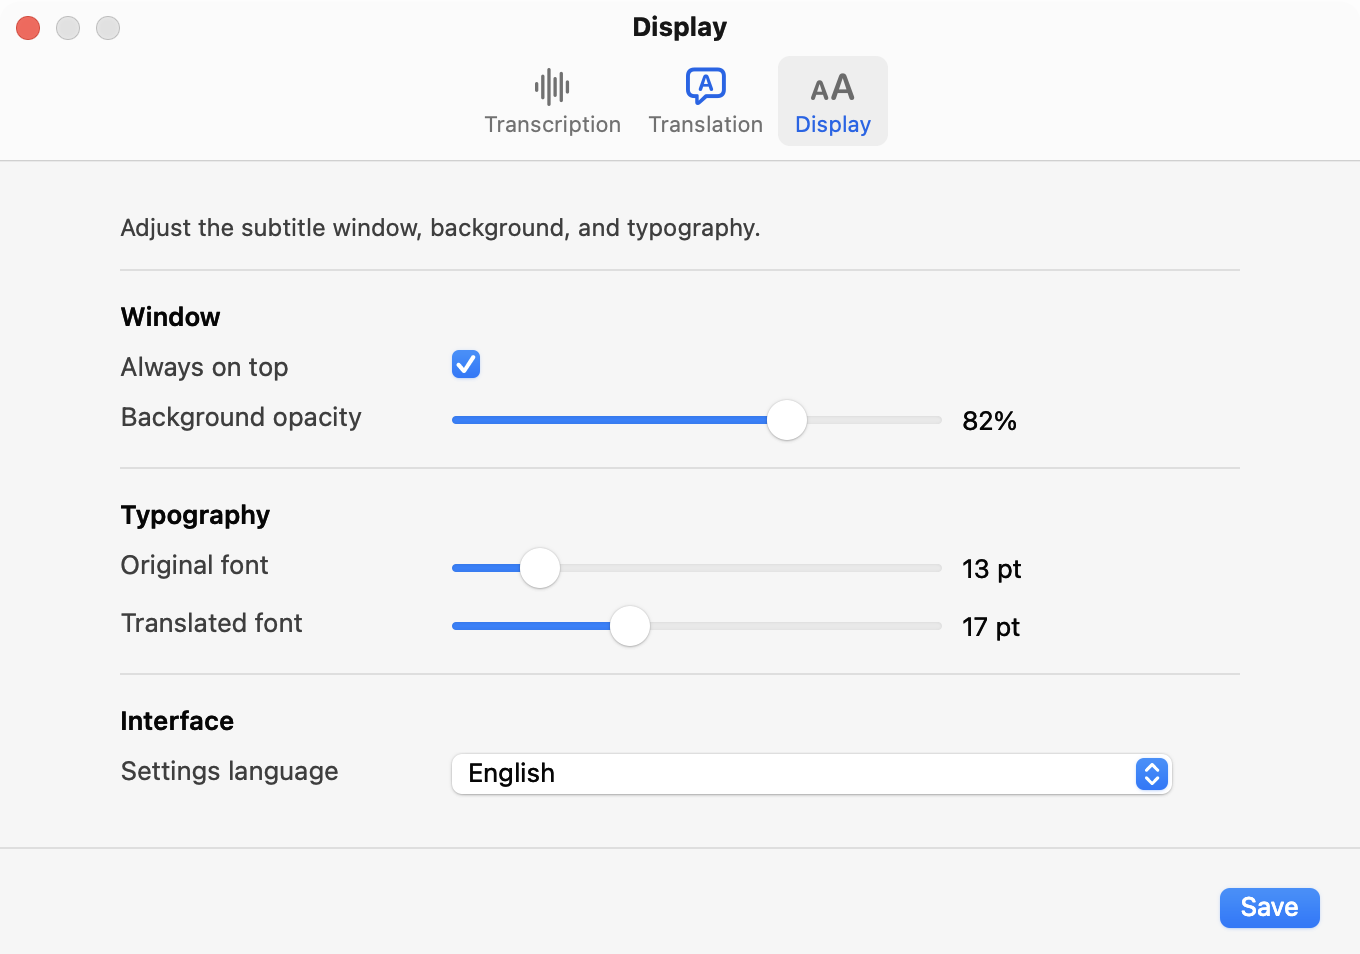
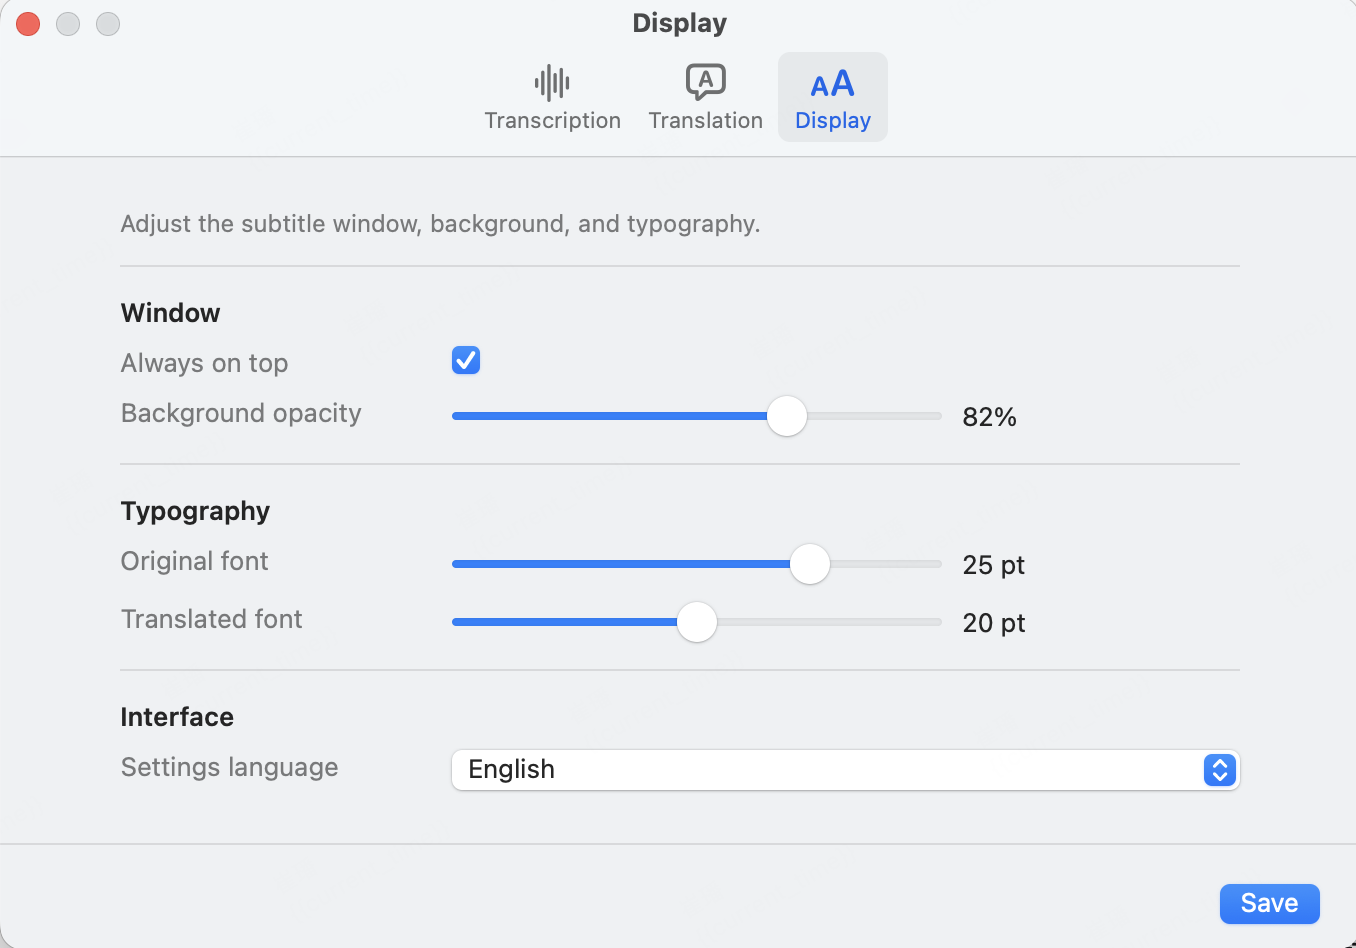
docs: refresh v0.1.0 guide and media
Condense the bilingual setup guide, update release notes and settings screenshots, and add the complete live transcription demo.

diff --git a/README.md b/README.md
@@ -13,15 +13,15 @@ English | [简体中文](README.zh-CN.md)
   <a href="LICENSE"><img src="https://img.shields.io/badge/license-MIT-blue.svg" alt="MIT License"></a>
 </p>
 
-Real-time system-audio transcription and optional translation in a native
-macOS menu-bar app. Mac Live Subtitle captures audio through
-ScreenCaptureKit, sends it to FunASR Realtime, and keeps a resizable subtitle
-panel above meetings, lectures, videos, and games.
+Mac Live Subtitle is a native macOS menu-bar app for real-time system-audio
+transcription and optional translation. It keeps a resizable subtitle panel
+above meetings, lectures, videos, and games.
 
 ### [Download the latest release →](https://github.com/Henry-Jessie/mac-live-subtitle/releases/latest)
 
-The packaged app requires **macOS 13 or later** and an **Apple Silicon Mac**.
-It does not require Python, BlackHole, a Multi-Output Device, or a local GPU.
+Requires **macOS 13 or later** and an **Apple Silicon Mac**. Native capture
+requires no Python, BlackHole, Multi-Output Device, or local GPU. BlackHole is
+available as a compatibility mode for protected players such as Apple TV.
 
 <p align="center">
   <img src="docs/images/subtitle-window.png" width="760" alt="Floating Mac Live Subtitle window">
@@ -29,40 +29,32 @@ It does not require Python, BlackHole, a Multi-Output Device, or a local GPU.
 
 ## Highlights
 
-- Native AppKit menu-bar app with no Dock icon.
-- Direct system-audio capture through ScreenCaptureKit.
+- Native AppKit menu-bar app and floating subtitle panel.
+- Native ScreenCaptureKit audio capture with optional BlackHole compatibility.
 - Streaming FunASR Realtime transcription with interim and final results.
-- Optional translation through DeepSeek, Gemini, or a custom
-  OpenAI-compatible endpoint.
-- Floating black subtitle panel with play, pause, stop, pin, and settings
-  controls.
-- Adjustable background opacity and separate source/translation font sizes.
-- English and Chinese settings interface.
-- API keys stored locally without Keychain authorization prompts.
+- Optional DeepSeek, Gemini, or custom OpenAI-compatible translation.
+- Play, pause, stop, pin, opacity, font, and bilingual-settings controls.
+
+## Demo
+
+<p align="center">
+  <img src="docs/images/demo.gif" width="760" alt="Live transcription, translation, and display controls">
+</p>
 
 ## Install
 
-1. Download `Mac-Live-Subtitle-v0.1.0-macos-arm64.zip` from
+1. Download the latest macOS arm64 ZIP from
    [GitHub Releases](https://github.com/Henry-Jessie/mac-live-subtitle/releases/latest).
 2. Unzip it and move **Mac Live Subtitle.app** to `/Applications`.
-3. Open the app once. Because the current release is self-signed and not
-   notarized by Apple, macOS may block the first launch.
-4. Open **System Settings → Privacy & Security**, scroll to **Security**, then
+3. Try to open the app once. macOS may block the first launch.
+4. Open **System Settings → Privacy & Security**, scroll to **Security**, and
    choose **Open Anyway** for Mac Live Subtitle.
-5. Open the app again. Its icon appears in the menu bar, and the subtitle
-   window opens without starting capture.
+5. Open the app again. Its menu-bar icon and subtitle window will appear
+   without starting capture.
 
-The release page includes `SHA256SUMS.txt` so the downloaded archive can be
-checked before installation:
+## Configure
 
-```bash
-shasum -a 256 -c SHA256SUMS.txt
-```
-
-## Configure services
-
-Open **Settings** from either the menu-bar menu or the subtitle-window gear
-button.
+Open **Settings** from the menu-bar menu or the subtitle-window gear button.
 
 ### Transcription
 
@@ -71,28 +63,30 @@ FunASR Realtime requires an Alibaba Cloud Model Studio API key:
 - [China API key guide](https://help.aliyun.com/zh/model-studio/get-api-key)
 - [International API key guide](https://www.alibabacloud.com/help/en/model-studio/get-api-key)
 
-Enter the key under **Settings → Transcription**. The API key and WebSocket
-endpoint must belong to the same Alibaba Cloud region. The built-in China and
-International guide buttons open the same documentation.
-
-Semantic punctuation gives more natural sentence boundaries but may produce
-longer segments. Advanced settings also provide a VAD mode, a silence
-threshold, multi-threshold VAD, and interim translation intervals.
+Under **Settings → Transcription**, choose China (Beijing) or International
+(Singapore), then enter a key from the same region. The app selects the
+matching WebSocket endpoint automatically. Advanced settings control sentence
+segmentation and the audio-capture backend. Interim translation is scheduled
+automatically, while complete sentences are translated immediately.
 
 ### Translation
 
-Translation is optional. Choose one of these providers under
-**Settings → Translation**:
+Translation is optional. Choose a target language and one provider:
 
-- **DeepSeek** — preconfigured for the DeepSeek OpenAI-compatible API;
-  [create an API key](https://platform.deepseek.com/api_keys).
-- **Gemini** — preconfigured for the Gemini OpenAI-compatible API;
-  [create an API key in Google AI Studio](https://aistudio.google.com/app/apikey).
-- **Custom** — enter any compatible Base URL and model name.
+- [DeepSeek](https://platform.deepseek.com/api_keys)
+- [Gemini](https://aistudio.google.com/app/apikey)
+- **Custom** — enter an OpenAI-compatible Base URL and model name.
 
-Select a target language, enter the provider API key, and use
-**Test Connection** before saving. Turning translation off leaves the
-original-language subtitles enabled.
+Enter the provider API key and use **Test Connection** before saving. Turning
+translation off leaves the original-language subtitles enabled.
+
+Transcription, translation, service-region, and audio-capture changes take
+effect the next time capture starts. Subtitle font, opacity, and pinning
+changes apply immediately.
+
+<p align="center">
+  <img src="docs/images/settings-transcription.png" width="760" alt="Transcription settings">
+</p>
 
 <p align="center">
   <img src="docs/images/settings-translation.png" width="49%" alt="Translation settings">
@@ -101,54 +95,56 @@ original-language subtitles enabled.
 
 ## Use
 
-Press **Play** in the subtitle window to start capture. On first use, approve
-the macOS system-audio prompt. If the permission was dismissed, enable
-**Mac Live Subtitle** under:
+Press **Play** to start capture. Native capture requires permission under:
 
 **System Settings → Privacy & Security → Screen & System Audio Recording**
 
 Quit and reopen the app after changing this permission.
 
+BlackHole Compatibility instead uses **Microphone** permission because macOS
+treats the virtual input as a microphone device.
+
 | Control | Action |
 |:--|:--|
-| Play / Pause | Start capture, pause a live session, or resume it |
+| Play / Pause | Start, pause, or resume the current session |
 | Stop | Close the current ASR and translation session |
 | Pin | Keep the subtitle panel above other windows |
-| Settings | Open transcription, translation, and display settings |
 
-The top strip of the subtitle panel moves the window. Its edges and corners
-resize it. Closing the panel hides it; choose **Subtitle Window** from the
-menu-bar menu to show it again.
+Drag the panel's top strip to move it and its edges or corners to resize it.
+Closing the panel hides it; choose **Subtitle Window** from the menu-bar menu
+to show it again.
 
-## Privacy and data flow
+## Privacy
 
-- System audio is streamed to the configured Alibaba Cloud FunASR service.
-- When translation is enabled, transcribed text is sent to the selected
-  translation provider.
+- System audio is streamed to Alibaba Cloud FunASR. When translation is
+  enabled, transcribed text is sent to the selected translation provider.
 - Transcripts are not stored by default. The optional FunASR event log writes
-  source text locally when explicitly enabled.
-- API keys are stored at
+  source text locally only when explicitly enabled.
+- API keys are stored as local plaintext at
   `~/Library/Application Support/Mac Live Subtitle/credentials.json`.
-  The directory is limited to the current macOS user and the file uses mode
-  `0600`.
-- The credentials file is local plaintext. Other processes running as the
-  same macOS user may be able to read it.
+  The directory uses mode `0700` and the file uses `0600`; other processes
+  running as the same macOS user may still be able to read it.
 - The app does not read or modify existing Keychain items.
 
 ## Troubleshooting
 
 <details>
-<summary><b>The app cannot be opened</b></summary>
+<summary><b>Apple TV turns black during transcription</b></summary>
 
-Try opening it once, then go to **System Settings → Privacy & Security** and
-choose **Open Anyway**. The current public build uses a stable self-signed
-certificate so macOS can recognize later updates, but it is not Apple
-notarized.
+Protected Apple TV video is hidden while ScreenCaptureKit is active. To keep
+Apple TV playback visible during transcription, install
+[BlackHole 2ch](https://github.com/ExistentialAudio/BlackHole), create a
+Multi-Output Device containing the built-in output and BlackHole, make the
+built-in output the primary device, select that Multi-Output Device as the
+macOS sound output, and choose **BlackHole Compatibility** under
+**Settings → Transcription → Advanced**. After use, switch the macOS sound
+output back to the preferred device. The app detects BlackHole on each start;
+no device number is saved.
 
 </details>
 
 <details>
-<summary><b>Screen audio permission is enabled but capture is denied</b></summary>
+<summary><b>Permission is enabled but capture is denied</b></summary>
 
 Confirm that the permission belongs to **Mac Live Subtitle.app**, not Terminal
 or a source-Python process. Quit the app completely after changing the
@@ -159,10 +155,8 @@ permission, then reopen it from `/Applications`.
 <details>
 <summary><b>FunASR does not connect</b></summary>
 
-Check the API key and WebSocket endpoint under
-**Settings → Transcription**. Region-specific keys cannot be used with an
-endpoint from another region. Connection and server errors appear in the
-subtitle-window banner.
+Check the API key and service region under **Settings → Transcription**.
+Region-specific keys cannot be used with another service region.
 
 </details>
 
@@ -170,24 +164,23 @@ subtitle-window banner.
 <summary><b>Translation does not appear</b></summary>
 
 Confirm that translation is enabled, the selected provider has an API key,
-and the target language is filled in. For Custom providers, also verify the
-Base URL and model name under Advanced.
+and the target language is filled in. Custom providers also require a Base
+URL and model name under Advanced.
 
 </details>
 
 <details>
 <summary><b>Sentences are too long</b></summary>
 
-Disable semantic punctuation to use VAD segmentation, then lower the
-maximum-silence value. Multi-threshold VAD can further limit unusually long
-segments. Interim translation can provide updates while a final sentence is
-still growing.
+Disable semantic punctuation to use VAD segmentation, then lower maximum
+silence. Multi-threshold VAD can further limit long segments; interim
+translation can update the translation before the final sentence ends.
 
 </details>
 
-## Run from source
+## For developers
 
-Source development requires macOS, Python 3.10 or later, and
+Development requires macOS, Python 3.10 or later, and
 [uv](https://docs.astral.sh/uv/):
 
 ```bash
@@ -195,53 +188,17 @@ git clone https://github.com/Henry-Jessie/mac-live-subtitle.git
 cd mac-live-subtitle
 uv sync --group build
 uv run python app.py
-```
-
-Source and packaged runs use the same `NSUserDefaults` suite and local
-credentials file. An existing `config.ini` is imported once on the first
-native launch and is not rewritten.
-
-Run the tests with:
-
-```bash
 uv run python -m unittest discover -s tests
 ```
 
-## Build a release
-
-The project uses py2app and a stable local signing identity. The release
-script performs a clean build, signs the bundle, verifies it, creates the
-macOS ZIP, writes its SHA-256 checksum, extracts it, and verifies the
-extracted bundle again:
-
-```bash
-./scripts/package_release.sh 0.1.0
-```
-
-Artifacts are written to `release/v0.1.0/`. The signing identity defaults to
-`Mac Live Subtitle Local Signing` and can be changed with
-`CODESIGN_IDENTITY`.
-
-The current public build is Apple Silicon only. Developer ID signing and
-Apple notarization remain outside the `v0.1.0` release.
-
-## How it works
-
-1. **Capture** — ScreenCaptureKit supplies system audio as variable-sized
-   sample buffers. The capture layer converts them into 16 kHz mono PCM
-   frames.
-2. **Transcription** — FunASR Realtime receives the PCM stream over WebSocket.
-   Interim events update the current line and final events commit a sentence.
-3. **Translation** — a serial translation executor sends committed text to
-   the selected provider with a bounded context window, then dispatches UI
-   updates back to AppKit's main thread.
+Release maintainers can build, sign, archive, and verify `v0.1.0` with
+`./scripts/package_release.sh 0.1.0`; the configured signing identity is
+required.
 
 ## Acknowledgments
 
 Inspired by and forked from
 [Real-Time Translator](https://github.com/Vanyoo/realtime-subtitle) by Van.
-Mac Live Subtitle replaces the original local-ASR and PyQt interface with
-cloud streaming ASR, ScreenCaptureKit, and a native AppKit menu-bar app.
 
 ## License
 

diff --git a/docs/release-notes/v0.1.0.md b/docs/release-notes/v0.1.0.md
@@ -5,12 +5,13 @@ The first native macOS release of Mac Live Subtitle.
 ## Highlights
 
 - Native AppKit menu-bar app and floating subtitle panel.
-- Direct system-audio capture through ScreenCaptureKit; BlackHole is no
-  longer required.
+- Native system-audio capture through ScreenCaptureKit, with optional
+  BlackHole compatibility for protected players such as Apple TV.
 - FunASR Realtime streaming transcription with semantic-punctuation and VAD
   modes.
 - Optional translation through DeepSeek, Gemini, or a custom
   OpenAI-compatible endpoint.
+- Time-based interim translation with immediate final-sentence priority.
 - English and Chinese settings interface.
 - Local API-key storage without Keychain authorization prompts.
 - Adjustable subtitle opacity, source font size, and translation font size.
@@ -44,6 +45,9 @@ The first native macOS release of Mac Live Subtitle.
   Apple, so the first launch requires the Open Anyway flow.
 - Transcription and translation use cloud services and may incur provider
   charges.
+- Protected Apple TV video turns black during native ScreenCaptureKit capture.
+  Use BlackHole Compatibility instead; it requires separate installation and
+  a Multi-Output Device.
 
 ---
 
@@ -54,9 +58,11 @@ The first native macOS release of Mac Live Subtitle.
 ## 主要更新
 
 - 原生 AppKit 菜单栏应用和悬浮字幕窗口。
-- 使用 ScreenCaptureKit 直接捕获系统音频，不再需要 BlackHole。
+- 使用 ScreenCaptureKit 原生捕获系统音频，并为 Apple TV 等受保护播放器提供
+  可选的 BlackHole 兼容模式。
 - FunASR Realtime 流式识别，支持语义标点和 VAD 分句。
 - 支持 DeepSeek、Gemini 和兼容 OpenAI 接口的自定义翻译服务。
+- 中间结果按时间自动翻译，完整句会立即提交翻译。
 - 设置界面支持中文和英文。
 - API Key 保存在本机，不会触发钥匙串授权弹窗。
 - 可调整字幕背景透明度、原文字号和译文字号。
@@ -83,3 +89,5 @@ The first native macOS release of Mac Live Subtitle.
 - 应用使用固定的自签名证书，尚未经过 Apple 公证，首次启动需要执行
   “仍要打开”流程。
 - 识别和翻译依赖云端服务，可能产生服务商费用。
+- Apple TV 受保护视频在原生 ScreenCaptureKit 捕获期间会变黑；可以改用
+  BlackHole 兼容模式，但需要单独安装驱动并配置多输出设备。
